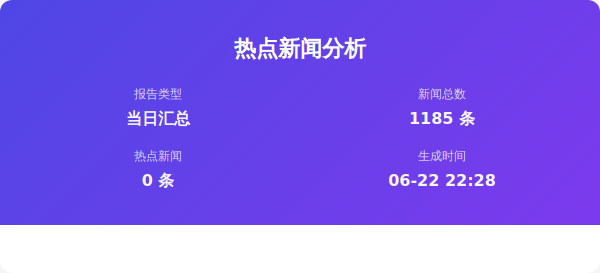
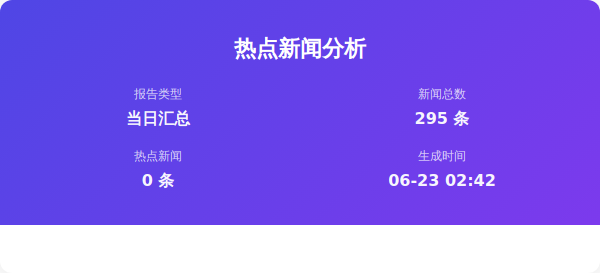
Auto update by GitHub Actions at Tue Jun 23 02:42:31 CST 2026

Changed region(s): [[0.66, 0.4103, 0.81, 0.4689], [0.72, 0.6447, 0.84, 0.7033]]

diff --git a/output/2026年06月23日/html/02时42分.html b/output/2026年06月23日/html/02时42分.html
@@ -353,11 +353,11 @@
                 <div class="header-info">
                     <div class="info-item">
                         <span class="info-label">报告类型</span>
-                        <span class="info-value">当日汇总</span>
+                        <span class="info-value">实时分析</span>
                     </div>
                     <div class="info-item">
                         <span class="info-label">新闻总数</span>
-                        <span class="info-value">295 条</span>
+                        <span class="info-value">240 条</span>
                     </div>
                     <div class="info-item">
                         <span class="info-label">热点新闻</span>
